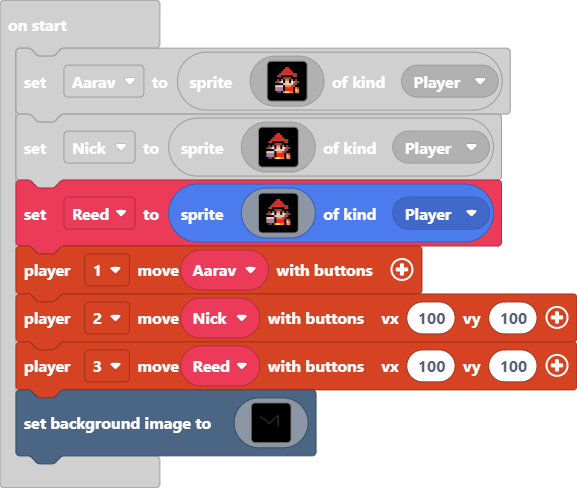
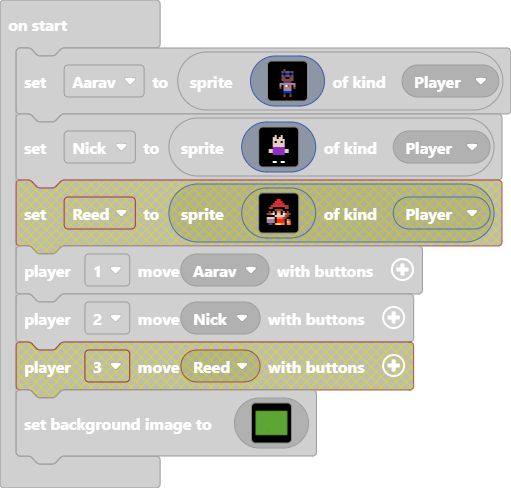
Update main.blocks, main.ts

diff --git a/main.ts b/main.ts
@@ -1,60 +1,41 @@
 let Aarav = sprites.create(img`
-    . . . . . . f f f f . . . . . . 
-    . . . . f f f 2 2 f f f . . . . 
-    . . . f f f 2 2 2 2 f f f . . . 
-    . . f f f e e e e e e f f f . . 
-    . . f f e 2 2 2 2 2 2 e e f . . 
-    . . f e 2 f f f f f f 2 e f . . 
-    . . f f f f e e e e f f f f . . 
-    . f f e f b f 4 4 f b f e f f . 
-    . f e e 4 1 f d d f 1 4 e e f . 
-    . . f f f f d d d d d e e f . . 
-    . f d d d d f 4 4 4 e e f . . . 
-    . f b b b b f 2 2 2 2 f 4 e . . 
-    . f b b b b f 2 2 2 2 f d 4 . . 
-    . . f c c f 4 5 5 4 4 f 4 4 . . 
-    . . . f f f f f f f f . . . . . 
-    . . . . . f f . . f f . . . . . 
+    . . . . . . . . . . . . . . . . 
+    . . . . . f f f f f f . . . . . 
+    . . . . f f e f f f f f . . . . 
+    . . . . f e 8 e e 8 e . . . . . 
+    . . . . f 8 f 8 8 f 8 . . . . . 
+    . . . . . e 8 e e 8 e . . . . . 
+    . . . . . e e f f e e . . . . . 
+    . . . . . e e e e e e . . . . . 
+    . . . . . . c c c c . . . . . . 
+    . . . . b b b b b b b b . . . . 
+    . . . . b . b 1 2 b . b . . . . 
+    . . . . e . b b b b . e . . . . 
+    . . . . . . b b b b . . . . . . 
+    . . . . . . 8 8 8 8 . . . . . . 
+    . . . . . . 8 . . 8 . . . . . . 
+    . . . . . . 2 . . 2 . . . . . . 
     `, SpriteKind.Player)
 let Nick = sprites.create(img`
-    . . . . . . f f f f . . . . . . 
-    . . . . f f f 2 2 f f f . . . . 
-    . . . f f f 2 2 2 2 f f f . . . 
-    . . f f f e e e e e e f f f . . 
-    . . f f e 2 2 2 2 2 2 e e f . . 
-    . . f e 2 f f f f f f 2 e f . . 
-    . . f f f f e e e e f f f f . . 
-    . f f e f b f 4 4 f b f e f f . 
-    . f e e 4 1 f d d f 1 4 e e f . 
-    . . f f f f d d d d d e e f . . 
-    . f d d d d f 4 4 4 e e f . . . 
-    . f b b b b f 2 2 2 2 f 4 e . . 
-    . f b b b b f 2 2 2 2 f d 4 . . 
-    . . f c c f 4 5 5 4 4 f 4 4 . . 
-    . . . f f f f f f f f . . . . . 
+    . . . . . . . . . . . . . . . . 
+    . . . f . f f f f f f . . . . . 
+    . . . . f f d f f d f f . . . . 
+    . . . . f d d f d d f f . . . . 
+    . . . . f d d d d d d f . . . . 
+    . . . . . d f d d f d . . . . . 
+    . . . . . d d d d d d . . . . . 
+    . . . . . d d d d d d . . . . . 
+    . . . . . a a a a a a . . . . . 
+    . . . d d a a a a a a d d . . . 
+    . . . d d a a a a a a d d . . . 
+    . . . . . a a a a a a . . . . . 
+    . . . . . f f f f f f . . . . . 
+    . . . . . f f f f f f . . . . . 
     . . . . . f f . . f f . . . . . 
-    `, SpriteKind.Player)
-let Reed = sprites.create(img`
-    . . . . . . f f f f . . . . . . 
-    . . . . f f f 2 2 f f f . . . . 
-    . . . f f f 2 2 2 2 f f f . . . 
-    . . f f f e e e e e e f f f . . 
-    . . f f e 2 2 2 2 2 2 e e f . . 
-    . . f e 2 f f f f f f 2 e f . . 
-    . . f f f f e e e e f f f f . . 
-    . f f e f b f 4 4 f b f e f f . 
-    . f e e 4 1 f d d f 1 4 e e f . 
-    . . f f f f d d d d d e e f . . 
-    . f d d d d f 4 4 4 e e f . . . 
-    . f b b b b f 2 2 2 2 f 4 e . . 
-    . f b b b b f 2 2 2 2 f d 4 . . 
-    . . f c c f 4 5 5 4 4 f 4 4 . . 
-    . . . f f f f f f f f . . . . . 
-    . . . . . f f . . f f . . . . . 
+    . . . . . 1 1 . . 1 1 . . . . . 
     `, SpriteKind.Player)
 controller.player1.moveSprite(Aarav)
 controller.player2.moveSprite(Nick)
-controller.player3.moveSprite(Reed)
 scene.setBackgroundImage(img`
     7777777777777777777777777777777777777777777777777777777777777777777777777777777777777777777777777777777777777777777777777777777777777777777777777777777777777777
     7777777777777777777777777777777777777777777777777777777777777777777777777777777777777777777777777777777777777777777777777777777777777777777777777777777777777777
